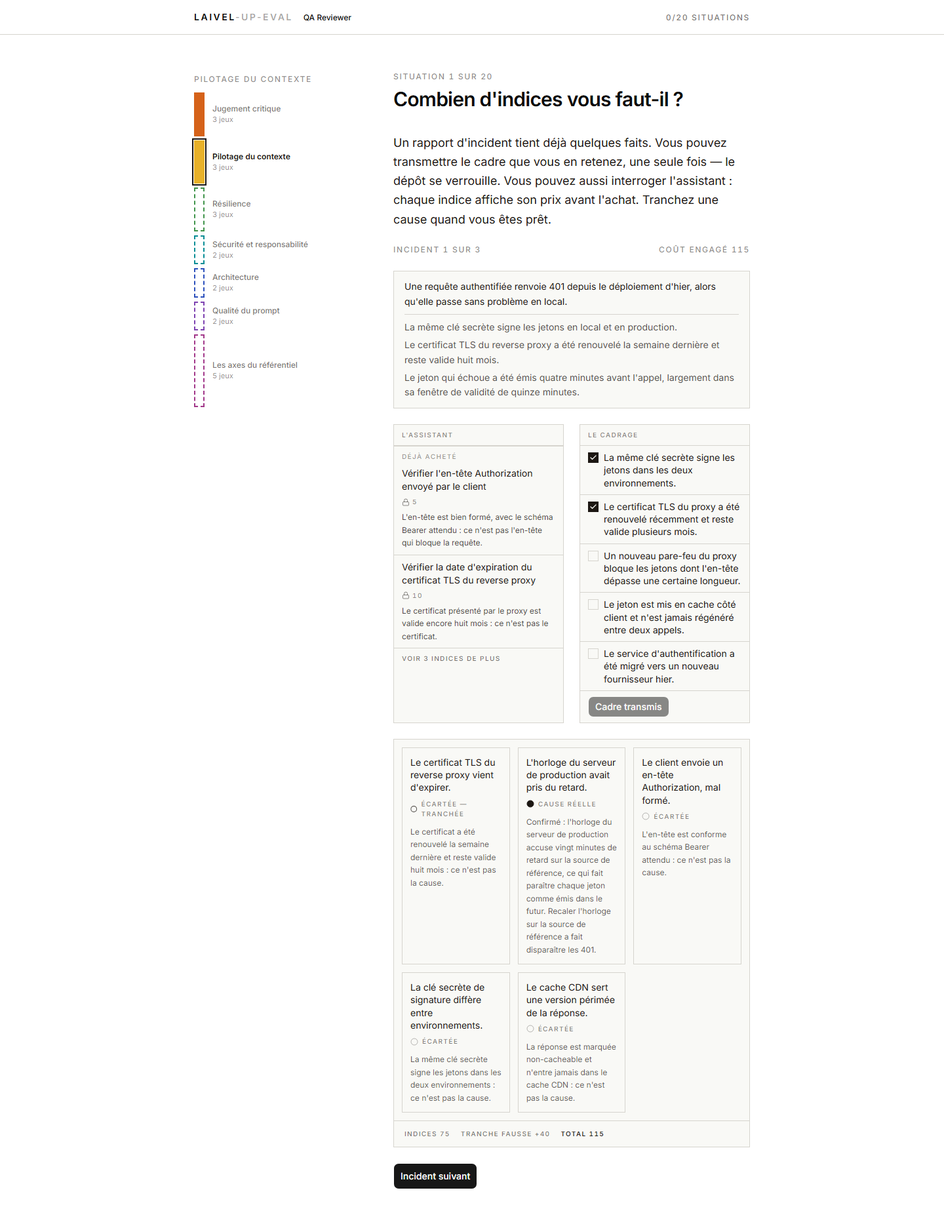
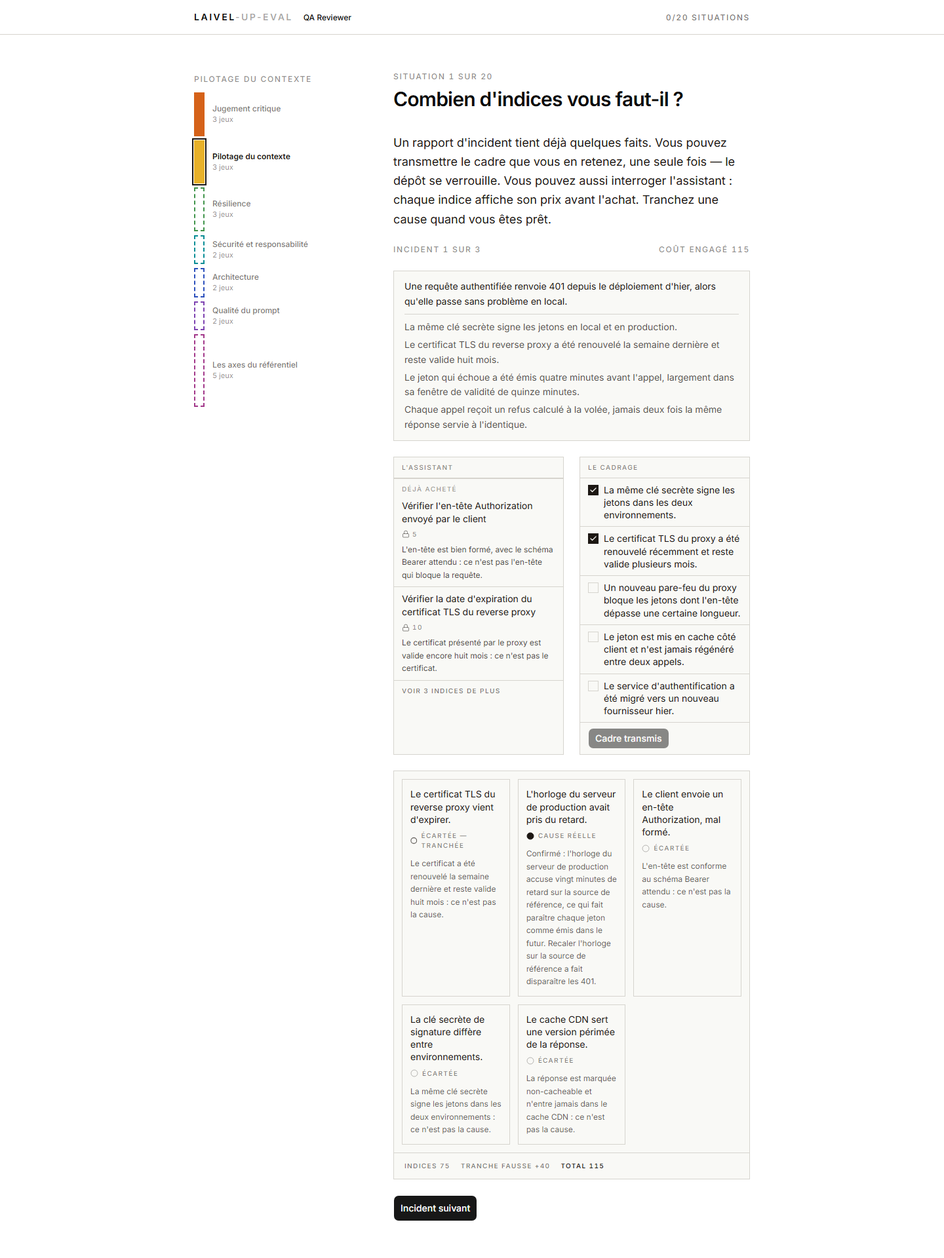
docs(games): redo hint-budget's browser tour after the two-cause floor
Commit 69633bd rewrote three hint labels (s1-h4, s2-h2, s3-h3) and added
a fourth report line to s1, both of which shift panel heights at both
viewports and stale every position and delta measurement fcba488 left
behind.

Replayed the tour end to end on a dedicated port (5199, since 5173 was
still held by another worktree's dev server), scrollY = 0 verified
before every position read, full-page captures cross-checked byte for
byte against the DOM scrollHeight they claim.

s1's panel tops move (647 -> 696.5px desktop, +49.5; 1337.25/872.25 ->
1429.5/944.5px mobile) because its report gained a line; s2 and s3,
whose reports are untouched, don't move at all. The five-buy height
delta on s1 goes from -57/-118px to -78/-138px (desktop/mobile) because
the opening document grew more than the post-purchase one.

Also closes two gaps the last independent review flagged: s2's "TOTAL
70" revelation now has a screenshot backing it, and s2's causes-panel
position is measured for the first time.

diff --git a/aidd_docs/tasks/2026_08/2026_08_30_jeu-hint-budget/qa/README.md b/aidd_docs/tasks/2026_08/2026_08_30_jeu-hint-budget/qa/README.md
@@ -1,45 +1,46 @@
 # Tournée navigateur — `hint-budget`
 
-30/08/2026, refaite intégralement après la réécriture des quinze textes d'indices de `g2-1` (chaque indice élimine désormais exactement une cause, `s1-h*`/`s2-h*`/`s3-h*` portent tous un champ `eliminates`, cf. commits `0d3ae27`, `6e9ade6`, `e8e591b`, `4cabf0c`). Chromium via Playwright (`@playwright/test`, déjà une dépendance du projet), harnais jetable écrit pour cette tournée, supprimé après capture — comme les tournées précédentes. Aux deux gabarits `1440×900` et `390×844`.
+30/08/2026, refaite intégralement après le commit `69633bd` (« floor hint-budget's field at two causes, never one ») : trois intitulés d'indices de `g2-1` réécrits (`s1-h4`, `s2-h2`, `s3-h3`), une quatrième ligne ajoutée au rapport de `s1`, et le seuil de la règle `frugal-solves-at-least` passé de `2` à `3`. Les trois premiers changent la hauteur du document ; le dernier est une règle d'évaluation, sans effet visuel. La tournée précédente (`qa/README.md` au commit `fcba488`) mesurait un corpus qui n'existe plus : ce fichier la remplace en entier, sans recopier aucun de ses chiffres. Chromium via Playwright (`@playwright/test`, déjà une dépendance du projet), harnais jetable écrit pour cette tournée, supprimé après capture. Aux deux gabarits `1440×900` et `390×844`.
 
-**Port du serveur de développement.** `npm run dev` par défaut sur `5173` était déjà occupé, sur cette machine, par le serveur d'un autre chantier en cours (`.claude/worktrees/placer-les-pratiques-sur-deux-axes`, un worktree distinct de cette branche, confirmé par sa ligne de commande). S'y connecter aurait mesuré le mauvais jeu : une première tentative a atterri sur `g2-2` (« Où placez-vous ces pratiques ? », type `test-bench`) avec `session.groupIndex=1, gameIndex=0` pourtant correct dans `localStorage` — la preuve que le serveur qui répondait sur `5173` ne servait pas cette branche. Toute la tournée a donc tourné sur un second serveur dédié, `npm exec vite -- --port 5199 --strictPort`, lancé depuis ce répertoire de travail et vérifié avant capture (`Le cadrage` présent dans le DOM, `L'assistant` aussi). Écart entre l'instruction (`5173`) et l'exécution réelle, assumé plutôt que tu : un port occupé par un processus tiers n'est pas ce jeu, peu importe qu'il réponde `200`.
+**Port du serveur de développement.** `5173` était occupé par le serveur d'un autre chantier en cours sur cette machine (`.claude/worktrees/placer-les-pratiques-sur-deux-axes`) — confirmé avant de s'y connecter (`netstat`, ligne `LISTENING` sur `5173` déjà présente avant tout lancement de cette tournée). S'y connecter aurait mesuré le mauvais jeu, comme lors d'une tournée précédente. Toute la tournée a donc tourné sur un second serveur dédié, `npm exec vite -- --port 5199 --strictPort`, lancé depuis ce répertoire de travail et arrêté après capture.
 
-**Méthode de mesure.** Session posée directement sur `g2-1` en écrivant `{"playerName":"QA Reviewer","groupIndex":1,"gameIndex":0,"submissions":[]}` dans `laivel-eval.session` (`localStorage`), rechargement, clic « Reprendre ». Chaque capture et chaque lecture de position part de `window.scrollTo(0, 0)`, `window.scrollY` **vérifié explicitement à 0** juste avant — le script lève une erreur s'il ne l'est pas. Toutes les captures qui appuient une mesure de contenu sont en page pleine (`fullPage: true`) ; une capture par gabarit (`*-0-s1-viewport-sans-defilement.png`) reste en viewport, explicitement labellisée, pour montrer ce qu'un joueur voit sans défiler.
+**Méthode de mesure.** Session posée directement sur `g2-1` en écrivant `{"playerName":"QA Reviewer","groupIndex":1,"gameIndex":0,"submissions":[]}` dans `laivel-eval.session` (`localStorage`), rechargement, clic « Reprendre ». Avant toute capture, la cible a été vérifiée à l'écran : groupe « Pilotage du contexte » en surbrillance dans la rampe, titre « Combien d'indices vous faut-il ? », panneaux « L'assistant » et « Le cadrage » tous deux présents — la preuve visuelle que la session est bien tombée sur `g2-1`, pas sur un voisin.
 
-**Une erreur de mesure attrapée avant capture, pas après.** Le premier passage du script lisait la position du panneau des causes à `s1` (`getBoundingClientRect().top`) *après* le balayage `Tab` qui mesure les arrêts de tabulation — or ce balayage fait défiler la page (le navigateur ramène l'élément focalisé dans le viewport), et le script ne revérifiait pas `scrollY = 0` avant cette lecture précise. Résultat, une valeur clairement fausse (`691px`, alors que la capture en viewport montre le panneau des causes hors écran à l'ouverture) : exactement la classe d'erreur que ce tour devait éviter. Corrigé en réordonnant le script — toute lecture de position précède désormais le balayage clavier — et la tournée entière a été rejouée avec l'ordre corrigé plutôt que corrigée à la ligne.
+Chaque capture et chaque lecture de position part de `window.scrollTo(0, 0)`, `window.scrollY` **vérifié explicitement à 0** juste avant — le script lève une erreur s'il ne l'est pas. Toute lecture de position (sommet de panneau, `scrollHeight`) précède le balayage `Tab` qui mesure les arrêts de tabulation, jamais l'inverse : un balayage clavier fait défiler la page pour ramener le focus dans le viewport, et une lecture de position prise après lui serait fausse sans qu'aucune erreur ne le signale — c'est l'erreur qui avait contaminé une tournée précédente avant d'être corrigée. Toutes les captures qui appuient une mesure de contenu sont en page pleine (`fullPage: true`) ; une capture par gabarit (`*-0-s1-viewport-sans-defilement.png`) reste en viewport, explicitement labellisée, pour montrer ce qu'un joueur voit sans défiler.
 
 ## Le parcours joué
 
 Trois situations, dans l'ordre :
 
-- **`s1`, en entier** : mesure de l'ordre des panneaux et des arrêts de tabulation à l'ouverture, cadre déposé (deux lectures retenues) et un indice acheté, les cinq indices achetés, puis une tranche **délibérément fausse** (la première cause du panneau, jamais garantie réelle) pour observer le relevé complet.
-- **`s2`, à vide** : aucun cadrage, aucun achat, tranche immédiate — pour observer l'ordre inversé des panneaux et la surtaxe d'aveugle au relevé.
-- **`s3`, partiellement** : ouverture mesurée, un cadre déposé (une lecture retenue) et un indice acheté, capturée sous `grayscale(1)`.
+- **`s1`, en entier** : mesure de l'ordre des panneaux et des arrêts de tabulation à l'ouverture, cadre déposé (deux lectures retenues, « Transmettre ce cadre » cliqué) et un indice acheté, les cinq indices achetés, puis une tranche **délibérément fausse** (la première cause du panneau, jamais garantie réelle) pour observer le relevé complet.
+- **`s2`, à vide** : aucun cadrage, aucun achat, tranche immédiate — pour observer l'ordre inversé des panneaux, la position du panneau des causes côté `s2` (non reprise par la tournée précédente) et la surtaxe d'aveugle au relevé, cette fois avec sa capture.
+- **`s3`, partiellement** : ouverture mesurée, un cadre déposé (une lecture retenue, « Transmettre ce cadre » cliqué) et un indice acheté, capturée sous `grayscale(1)`.
 
 ## Ce qui est capturé
 
-16 fichiers, 8 par gabarit, dimensions PNG lues à l'octet et recoupées avec les `scrollHeight` DOM (aucun écart) :
+18 fichiers, 9 par gabarit, dimensions PNG lues à l'octet et recoupées avec les `scrollHeight` DOM (aucun écart) :
 
 | Fichier | État | Dimensions (desktop / mobile) |
 | --- | --- | --- |
 | `{gabarit}-0-s1-viewport-sans-defilement.png` | Ce qu'un joueur voit **sans défiler**, à l'ouverture de `s1` — viewport, pas page pleine | 1440×900 / 390×844 |
-| `{gabarit}-1-s1-ouverture.png` | `s1` ouverte, rien cliqué — page pleine | 1440×1530 / 390×2280 |
-| `{gabarit}-2-s1-cadre-depose-un-achat.png` | Cadre déposé (deux lectures retenues), un indice acheté — page pleine | 1440×1608 / 390×2338 |
-| `{gabarit}-3-s1-cinq-achats.png` | Les cinq indices achetés : le relevé plafonné-et-replié — page pleine | 1440×1473 / 390×2162 |
-| `{gabarit}-4-s1-revelation.png` | Révélation de `s1`, après une tranche volontairement fausse — page pleine | 1440×1870 / 390×2557 |
+| `{gabarit}-1-s1-ouverture.png` | `s1` ouverte, rien cliqué — page pleine | 1440×1600 / 390×2372 |
+| `{gabarit}-2-s1-cadre-depose-un-achat.png` | Cadre déposé (deux lectures retenues, transmis), un indice acheté — page pleine | 1440×1677 / 390×2430 |
+| `{gabarit}-3-s1-cinq-achats.png` | Les cinq indices achetés : le relevé plafonné-et-replié — page pleine | 1440×1522 / 390×2234 |
+| `{gabarit}-4-s1-revelation.png` | Révélation de `s1`, après une tranche volontairement fausse — page pleine | 1440×1920 / 390×2629 |
 | `{gabarit}-5-s2-ouverture.png` | `s2` ouverte : le cadrage en tête cette fois — page pleine | 1440×1358 / 390×2039 |
-| `{gabarit}-6-s3-ouverture.png` | `s3` ouverte : le marché en tête à nouveau — page pleine | 1440×1381 / 390×2071 |
-| `{gabarit}-7-s3-desature.png` | `s3`, une lecture retenue et un indice acheté, sous `grayscale(1)` — page pleine | 1440×1457 / 390×2149 |
+| `{gabarit}-5b-s2-revelation.png` | Révélation de `s2`, tranche à l'aveugle — page pleine, **nouveau cette tournée** | 1440×1755 / 390×2453 |
+| `{gabarit}-6-s3-ouverture.png` | `s3` ouverte : le marché en tête à nouveau — page pleine | 1440×1400 / 390×2071 |
+| `{gabarit}-7-s3-desature.png` | `s3`, une lecture retenue et un indice acheté, sous `grayscale(1)` — page pleine | 1440×1477 / 390×2149 |
 
-`desktop-0`/`mobile-0` sont bien en viewport (1440×900, 390×844), pas en page pleine — visibles sur la capture elle-même : le panneau des causes n'y apparaît pas (`s1_causes_top` mesuré à 1184px desktop, 1728px mobile, tous deux au-delà de la hauteur du viewport).
+`desktop-0`/`mobile-0` sont bien en viewport (1440×900, 390×844), pas en page pleine — le panneau des causes n'y apparaît pas (`s1_causes_top` mesuré à 1253,5px desktop, 1820,25px mobile, tous deux au-delà de la hauteur du viewport). `mobile-0` est, à l'octet près, identique à la capture équivalente de la tournée précédente : la quatrième ligne de rapport ajoutée par `69633bd` tombe hors du viewport mobile (844px) dès l'ouverture, après les trois lignes déjà là — rien de nouveau n'y est visible, ce n'est pas une capture non renouvelée par erreur.
 
 ## Point 1 — position et lisibilité du cadrage et du marché, aux deux gabarits
 
-**Desktop (`sm:` et au-delà) : parité par écran exacte.** `hint-budget-game.tsx` pose `grid-cols-1 sm:grid-cols-2` : les deux panneaux sont deux frères d'une même rangée CSS Grid, sommet et pied identiques par construction (`align-items: stretch`). Mesuré (`getBoundingClientRect().top`) :
+**Desktop (`sm:` et au-delà) : parité par écran exacte, inchangée.** `hint-budget-game.tsx` pose `grid-cols-1 sm:grid-cols-2` : les deux panneaux sont deux frères d'une même rangée CSS Grid, sommet et pied identiques par construction (`align-items: stretch`). Mesuré (`getBoundingClientRect().top`) :
 
 | Situation | Sommet cadrage | Sommet marché | Écart |
 | --- | --- | --- | --- |
-| `s1` | 647 | 647 | 0 |
+| `s1` | 696,5 | 696,5 | 0 |
 | `s2` | 494 | 494 | 0 |
 | `s3` | 516,75 | 516,75 | 0 |
 
@@ -47,13 +48,13 @@ Trois situations, dans l'ordre :
 
 | Situation | Sommet cadrage | Sommet marché | Écart vertical |
 | --- | --- | --- | --- |
-| `s1` | 1337,25 | 872,25 | 465 |
+| `s1` | 1429,5 | 944,5 | 485 |
 | `s2` | 631,5 | 1022,25 | 390,75 |
 | `s3` | 1071 | 586 | 485 |
 
-**Ce qui ne bouge pas d'une tournée à l'autre, et pourquoi.** Ces huit valeurs sont identiques, à la décimale, à celles de la tournée précédente (avant la réécriture des indices). Ce n'est pas une preuve recopiée : c'est une conséquence attendue de ce que la tâche a changé. La position du sommet des deux panneaux ne dépend que du contenu **au-dessus** de la grille (l'énoncé, le rapport d'incident) — jamais réécrit par cette tâche — et l'ordre DOM des deux panneaux n'a pas bougé non plus. Une position de sommet identique n'implique donc aucune régression de mesure ; elle confirme au contraire que la tâche a touché le bon périmètre (les indices) et rien d'autre.
+**Ce qui infirme l'ancienne tournée : `s1` a bougé, `s2` et `s3` n'ont pas bougé — et c'est exactement ce que le commit mesuré prédit.** `69633bd` touche le rapport de `s1` (une ligne de plus) et l'intitulé de `s1-h4` ; il ne touche ni le rapport de `s2`/`s3` ni leurs positions au-dessus de la grille. Mesuré : le sommet de `s1` passe de 647px à **696,5px** desktop (+49,5px, la ligne de rapport en plus), de 1337,25/872,25px à **1429,5/944,5px** mobile (+92,25 pour le cadrage, +72,25 pour le marché — un écart entre les deux qui vient de l'intitulé de `s1-h4`, plus long, qui allonge aussi le panneau du marché sur une colonne étroite). `s2` (494 / 631,5 / 1022,25) et `s3` (516,75 / 1071 / 586) restent identiques à la décimale près à la tournée précédente : ni leur rapport ni le contenu au-dessus de leur grille n'a changé. Une position qui bouge exactement là où la tâche a touché, et qui ne bouge pas là où elle n'a pas touché, n'est pas une régression de mesure : c'est la preuve que le périmètre de la tâche est le bon.
 
-**Lisibilité, aux deux gabarits.** Vérifiée sur `mobile-1-s1-ouverture.png` et `desktop-0-s1-viewport-sans-defilement.png` : les nouveaux intitulés d'indices (« Vérifier la date d'expiration du certificat TLS du reverse proxy », « Comparer la clé secrète de signature entre les deux environnements », etc.) tiennent sur une à deux lignes normales, aucun repli caractère par caractère. Confirmé aussi sur `desktop-6-s3-ouverture.png` et `mobile-3-s1-cinq-achats.png` pour les indices déjà achetés (texte de preuve affiché).
+**Lisibilité, aux deux gabarits.** Vérifiée sur `desktop-1-s1-ouverture.png` et `mobile-1-s1-ouverture.png` : le nouvel intitulé de `s1-h4` (« Demander la clé de signature effectivement chargée en production ») tient sur trois lignes desktop, deux lignes mobile, aucun repli caractère par caractère. Confirmé aussi sur `desktop-5-s2-ouverture.png`/`mobile-5-s2-ouverture.png` pour le nouvel intitulé de `s2-h2` (« Rechercher une remise appliquée sur les lignes concernées ») et sur `desktop-6-s3-ouverture.png` pour celui de `s3-h3` (« Comparer les versions mineures de Node résolues de part et d'autre ») — trois lignes desktop, lisibles, pas de repli.
 
 ## Point 2 — l'ordre réel des deux panneaux dans chacune des trois situations
 
@@ -65,7 +66,7 @@ Trois situations, dans l'ordre :
 | `s2` | **Le cadrage** | `desktop-5`, `mobile-5` |
 | `s3` | **Le marché** | `desktop-6`, `mobile-6` |
 
-Confirmé visuellement : `desktop-1`/`mobile-1` (« L'ASSISTANT » en tête), `desktop-5` (« LE CADRAGE » en tête), `desktop-6`/`mobile-6` (« L'ASSISTANT » de nouveau en tête). Structure inchangée depuis la tournée précédente — attendu, la réécriture des indices n'a touché ni composant ni classe de mise en page.
+Confirmé visuellement : « L'ASSISTANT » en tête sur `desktop-1`/`mobile-1`, « LE CADRAGE » en tête sur `desktop-5`/`mobile-5`, « L'ASSISTANT » de nouveau en tête sur `desktop-6`/`mobile-6`. Inchangé depuis la tournée précédente — attendu, la réécriture des indices ne touche ni composant ni classe de mise en page.
 
 ## Point 3 — l'action de trancher : position à l'ouverture et après cinq achats
 
@@ -73,16 +74,16 @@ Mesuré sur `s1`, `scrollY = 0` vérifié avant chaque lecture, page pleine :
 
 | Gabarit | `scrollHeight` | `clientHeight` | Dépassement | Sommet du panneau des causes | Sous le pli de |
 | --- | --- | --- | --- | --- | --- |
-| Desktop, ouverture | 1530 | 900 | 630px | 1184px | 284px |
-| Desktop, après 5 achats | 1473 | 900 | 573px | 1126,75px | 226,75px |
-| Mobile, ouverture | 2280 | 844 | 1436px | 1728px | 884px |
-| Mobile, après 5 achats | 2162 | 844 | 1318px | 1610px | 766px |
+| Desktop, ouverture | 1600 | 900 | 700px | 1253,5px | 353,5px |
+| Desktop, après 5 achats | 1522 | 900 | 622px | 1176,25px | 276,25px |
+| Mobile, ouverture | 2372 | 844 | 1528px | 1820,25px | 976,25px |
+| Mobile, après 5 achats | 2234 | 844 | 1390px | 1682,25px | 838,25px |
 
-**Trancher reste hors d'écran sans défilement, aux deux gabarits, dès l'ouverture** — inchangé depuis la dernière tournée, toujours couvert par `aidd_docs/backlog/defects/l-ouverture-de-hint-budget-pousse-le-tranchage-hors-de-l-ecran.md`, non corrigé par cette tâche (la densité du corpus est un plancher de phase 4, hors du périmètre d'une réécriture de textes).
+**Trancher reste hors d'écran sans défilement, aux deux gabarits, dès l'ouverture** — inchangé depuis les dernières tournées, toujours couvert par `aidd_docs/backlog/defects/l-ouverture-de-hint-budget-pousse-le-tranchage-hors-de-l-ecran.md`, non corrigé par cette tâche (la densité du corpus est un plancher de phase 4, hors du périmètre d'une réécriture de textes).
 
-**Acheter n'aggrave jamais ce défilement, aux deux gabarits** : desktop −57px (1530 → 1473), mobile −118px (2280 → 2162).
+**Acheter n'aggrave jamais ce défilement, aux deux gabarits** : desktop −78px (1600 → 1522), mobile −138px (2372 → 2234).
 
-**Ce que ce nouveau relevé infirme de l'ancien.** L'ancien delta mobile, −119px, est périmé : le nouveau est **−118px** — un écart d'1px, dans le bruit d'un arrondi de ligne. L'ancien delta desktop, −37px, l'est davantage : le nouveau est **−57px**. La différence s'explique par où la tâche a agi. À l'ouverture, seuls les intitulés (`label`) des indices sont visibles, et ils ont été substantiellement réécrits (`git diff` sur `config/course.json` : aucun des quinze intitulés de `g2-1` n'est resté identique) — la hauteur de document à l'ouverture desktop est donc passée de 1510px à **1530px** (+20px), pas restée stable. Après les cinq achats en revanche, la hauteur retombe exactement à la même valeur qu'avant la réécriture (1473px desktop, contre 1473px déjà mesuré la tournée précédente ; 2162px mobile contre 2161px) : le texte de preuve affiché après achat (`text`, aussi réécrit) occupe, par coïncidence de longueur, le même nombre de lignes que l'ancien corpus dans les deux entrées visibles du relevé plafonné. Un desktop qui parcourt cinq lettres différentes pour atterrir au même total de lignes n'est pas une anomalie de mesure ; c'est un fait sur ce corpus précis, qu'un futur corpus ne reproduira pas nécessairement.
+**Ce que ce nouveau relevé infirme.** Les deux tournées précédentes donnaient tour à tour −37px/−119px puis −57px/−118px pour desktop/mobile ; les deux sont périmées. Le nouveau relevé, **−78px desktop, −138px mobile**, s'explique par où `69633bd` a agi : à l'ouverture, la quatrième ligne de rapport (nouvelle) et le nouvel intitulé de `s1-h4` (plus long que l'ancien) allongent le document d'ouverture — 1600px desktop contre 1530px avant ce commit, 2372px mobile contre 2280px. Après les cinq achats, seul le texte de preuve de `s1-h4` (`text`, aussi réécrit, plus court que l'ancien : « La clé chargée au démarrage correspond à celle du coffre de secrets… » contre l'ancien texte du cache CDN) entre dans le relevé plafonné à deux entrées visibles — 1522px desktop contre 1473px avant, 2234px mobile contre 2162px. Le document d'ouverture a grandi davantage que le document après achats : l'écart entre les deux (le delta) grandit donc lui aussi, dans le sens négatif. Ce n'est pas une instabilité du composant, c'est le corpus mesuré qui a changé aux deux bouts.
 
 ## Point 4 — le nombre d'arrêts de tabulation pour atteindre chaque panneau
 
@@ -94,7 +95,7 @@ Mesuré par une marche `Tab` continue depuis un focus remis sur `document.body` 
 | `s2` | 8 | 2 | Cadrage (6 arrêts d'avance) |
 | `s3` | 2 | 7 | Marché (5 arrêts d'avance) |
 
-Le panneau en tête change bien d'une situation à l'autre (marché sur `s1`/`s3`, cadrage sur `s2`), mais la **distance** entre les deux panneaux reste asymétrique dans les deux sens (5 puis 6 arrêts) : pas une parité de comptage au clavier, seulement l'absence d'un panneau systématiquement le plus loin sur l'ensemble d'une partie. Chiffres identiques à la tournée précédente — attendu, la réécriture des indices ne change ni le nombre d'éléments focalisables ni leur ordre.
+Chiffres identiques à la tournée précédente, remesurés plutôt que recopiés — attendu, la réécriture des indices ne change ni le nombre d'éléments focalisables ni leur ordre. Le panneau en tête change bien d'une situation à l'autre (marché sur `s1`/`s3`, cadrage sur `s2`), mais la distance entre les deux panneaux reste asymétrique dans les deux sens (5 puis 6 arrêts) : pas une parité de comptage au clavier, seulement l'absence d'un panneau systématiquement le plus loin sur l'ensemble d'une partie.
 
 ## Point 5 — la révélation, avec son relevé chiffré
 
@@ -102,35 +103,43 @@ Le panneau en tête change bien d'une situation à l'autre (marché sur `s1`/`s3
 
 > INDICES 75 · TRANCHE FAUSSE +40 · TOTAL 115
 
-Vérifié : 5+10+15+20+25 = 75 (les cinq indices), +40 la pénalité de tranche fausse, pas de surtaxe d'aveugle puisque des indices ont été achetés, 75+40 = 115. Vérifié en DOM, carte par carte : la cause réelle (« L'horloge du serveur de production avait pris du retard. ») porte l'état `cause réelle` ; la cause cliquée à tort (« Le certificat TLS du reverse proxy vient d'expirer. ») porte `écartée — tranchée`, distincte des trois autres cartes qui portent `écartée` seule — le libellé est en minuscules dans le DOM, rendu en capitales par la classe `uppercase`, ce que l'ancien README rendait déjà de façon un peu ambiguë en écrivant la version capitalisée.
+Vérifié : 5+10+15+20+25 = 75 (les cinq indices, coûts inchangés par ce commit), +40 la pénalité de tranche fausse, pas de surtaxe d'aveugle puisque des indices ont été achetés, 75+40 = 115 — identique à la tournée précédente, attendu puisque `69633bd` ne touche ni les coûts ni la pénalité. Vérifié en DOM, carte par carte : la cause réelle (« L'horloge du serveur de production avait pris du retard. ») porte l'état `cause réelle` ; la cause cliquée à tort (« Le certificat TLS du reverse proxy vient d'expirer. ») porte `écartée — tranchée`, et cette marque n'apparaît que sur une seule carte à la fois (`s1CutMarkingCount = 1`, vérifié en DOM aux deux gabarits), distincte des trois autres cartes qui portent `écartée` seule.
 
-**`s2` — aucun cadrage, aucun achat, tranche à l'aveugle** :
+**`s2` — aucun cadrage, aucun achat, tranche à l'aveugle, capturée cette fois** (`desktop-5b-s2-revelation.png`, `mobile-5b-s2-revelation.png`) :
 
 > INDICES 0 · TRANCHE FAUSSE +40 · AVEUGLE +30 · TOTAL 70
 
-Vérifié : 0 indice acheté, +40 la pénalité de tranche fausse, +30 la surtaxe d'aveugle (`blindCutSurcharge`), cumulées puisqu'aucun indice n'a été acheté avant de trancher, 0+40+30 = 70. `blindCutSurcharge` (30) reste strictement supérieur au coût du plus cher des cinq indices de `s2` (25) — la garantie que le schéma refuse de charger sans elle, toujours tenue par ce corpus.
+Vérifié : 0 indice acheté, +40 la pénalité de tranche fausse, +30 la surtaxe d'aveugle (`blindCutSurcharge`), cumulées puisqu'aucun indice n'a été acheté avant de trancher, 0+40+30 = 70. **Ce qui ferme un point resté ouvert après la tournée précédente** : la revue indépendante avait relevé que ce total (« TOTAL 70 ») était marqué vérifié sans capture à l'appui. Il l'est maintenant, aux deux gabarits.
 
 ## Point 6 — l'affichage identique des deux natures de lecture
 
-Vérifié en DOM, séparément de la tournée principale (lecture de contrôle sur les cinq boutons du panneau « Le cadrage » de `s1`, ouverture fraîche, `scrollY = 0`) : une seule `className` sur les cinq boutons, aucun attribut `data-*` distinctif. `framing-line.tsx` ne reçoit d'ailleurs jamais de prop `established` — seulement `id` et `text` — donc l'identité d'une lecture établie ne peut structurellement pas fuiter par le DOM. Confirme ce que `hint-budget-game.test.tsx` verrouille déjà (« renders an established reading and a supposition with exactly the same structure »).
+Vérifié en DOM, séparément de la tournée principale (lecture de contrôle sur les six boutons du panneau « Le cadrage » de `s1`, ouverture fraîche, `scrollY = 0`) : les cinq boutons `FramingLine` partagent une seule et même `className`, aucun attribut `data-*` distinctif ; seul le sixième bouton (« Transmettre ce cadre », le composant `Button` de soumission) en porte un (`data-slot`), et sa classe diffère — cohérent avec le fait qu'il ne s'agit pas d'une ligne de cadrage. `framing-line.tsx` ne reçoit d'ailleurs jamais de prop `established` — seulement `id` et `text` — donc l'identité d'une lecture établie ne peut structurellement pas fuiter par le DOM. Confirme ce que `hint-budget-game.test.tsx` verrouille déjà (« renders an established reading and a supposition with exactly the same structure »).
 
 ## Point 7 — l'état sans la couleur
 
-`desktop-7-s3-desature.png`, `mobile-7-s3-desature.png` (`grayscale(1)`, page pleine) : la lecture de cadrage retenue reste identifiable par sa case pleine (carré noir), l'indice acheté par son cadenas et son texte déjà révélé. **Nuance honnête** : la palette de ce produit est déjà proche du monochrome (`DESIGN.md`) ; le filtre `grayscale(1)` a donc un effet visuellement discret sur cet écran précis — la vérification porte moins sur « la couleur disparaît » que sur « aucune des trois marques d'état ne s'appuyait uniquement sur une teinte qui aurait disparu », ce que les deux captures confirment.
+`desktop-7-s3-desature.png`, `mobile-7-s3-desature.png` (`grayscale(1)`, page pleine, sur `s3` : un cadre déposé et un indice acheté) : la lecture de cadrage retenue reste identifiable par sa case pleine (carré noir), l'indice acheté par son cadenas et son texte déjà révélé, le bouton « Transmettre ce cadre » par son état assombri (« Cadre transmis »). **Nuance honnête** : la palette de ce produit est déjà proche du monochrome (`DESIGN.md`) ; le filtre `grayscale(1)` a donc un effet visuellement discret sur cet écran précis — la vérification porte moins sur « la couleur disparaît » que sur « aucune des marques d'état ne s'appuyait uniquement sur une teinte qui aurait disparu », ce que les deux captures confirment.
 
 ## Ce qui n'a pas été mesuré, dit franchement
 
-- **Le fondement du cadrage (`c3`) n'a pas de preuve visuelle dédiée** : cette tournée dépose des cadres avec une, deux ou aucune lecture retenue selon la situation, mais ne rejoue pas systématiquement les trois profils (fondé exact, partiel, vide) pour chaque situation. Couvert par les tests (`evaluator.test.ts`, `hint-budget-run.test.ts`), pas par une capture dédiée ici.
-- **`s2`, mesure de la position du panneau des causes et du dépassement** : non reprise (seule `s1` a servi de base à cette mesure, comme pour les tournées précédentes). Rien n'indique qu'elle différerait significativement, la densité du corpus étant la même aux trois situations, mais ce n'est pas mesuré.
+- **Le fondement du cadrage (`c3`) n'a pas de preuve visuelle dédiée** : cette tournée dépose des cadres avec une, deux ou aucune lecture retenue selon la situation, mais ne rejoue pas systématiquement les trois profils (fondé exact, partiel, vide) pour chaque situation. Couvert par les tests (`evaluator.test.ts`, `hint-budget-run.test.ts`), pas par une capture dédiée ici — inchangé depuis les tournées précédentes.
 - **Le décompte des situations résolues et le score final** ne sont jamais affichés pendant la partie ; cette tournée ne les a donc pas cherchés à l'écran, conformément à « un jeu ne dit jamais ce qu'il note ».
-- **Les causes elles-mêmes n'ont pas été réécrites par cette tâche** (seuls les indices l'ont été) : les textes de causes affichés en révélation, sur `s1`, sont identiques à ceux de la tournée précédente — cohérent, pas une omission de cette passe.
+- **Les causes elles-mêmes n'ont pas été réécrites par `69633bd`** (seuls les intitulés et textes de trois indices, et le rapport de `s1`, l'ont été) : les textes de causes affichés en révélation sont identiques à ceux des tournées précédentes — vérifié par comparaison directe du texte extrait en DOM sur `s1` et `s2`, pas seulement supposé.
+- **Le nouveau seuil de la règle `frugal-solves-at-least` (`threshold: 3`, était `2`) n'a aucune preuve visuelle** : c'est une règle d'évaluation pure, jamais affichée à l'écran par construction (« un jeu ne dit jamais ce qu'il note ») — rien à capturer, seulement à confirmer par lecture de `config/course.json` et par les tests d'intégration (`hint-budget-run.test.ts`), hors du périmètre d'une tournée navigateur.
+
+**Deux points relevés comme non couverts par la revue précédente, et fermés par cette tournée** : le relevé de `s2` (« TOTAL 70 ») a maintenant sa capture (`desktop-5b`/`mobile-5b-s2-revelation.png`) ; la position du panneau des causes sur `s2` est maintenant mesurée (1012,25px desktop, 1487,25px mobile — table complète ci-dessous).
+
+| Situation | Sommet du panneau des causes (desktop) | Sommet du panneau des causes (mobile) |
+| --- | --- | --- |
+| `s1`, ouverture | 1253,5 | 1820,25 |
+| `s1`, après 5 achats | 1176,25 | 1682,25 |
+| `s2`, ouverture | 1012,25 | 1487,25 |
 
 ## Verdict
 
-**Ce que cette tournée établit, mesuré et vérifié au pixel ou en DOM, sur le corpus d'indices réécrit** : la parité desktop reste exacte (écart de sommet nul sur les trois situations) ; l'alternance mobile fait toujours alterner le panneau en tête (marché deux fois, cadrage une fois) sans jamais atteindre une parité de comptage au clavier (5 puis 6 arrêts) ; l'ouverture pousse toujours le panneau des causes sous le pli, aux deux gabarits, et les cinq achats réduisent toujours ce dépassement plutôt que de l'aggraver ; le relevé de révélation est exact au centime près, sur une tranche fausse comme sur une tranche à l'aveugle ; la marque « écartée — tranchée » reste visible et distincte des trois autres cartes écartées ; les nouveaux intitulés d'indices restent lisibles sans repli aux deux gabarits.
+**Ce que cette tournée établit, mesuré et vérifié au pixel ou en DOM, sur le corpus réécrit par `69633bd`** : la parité desktop reste exacte (écart de sommet nul sur les trois situations) ; l'alternance mobile fait toujours alterner le panneau en tête (marché deux fois, cadrage une fois) sans jamais atteindre une parité de comptage au clavier (5 puis 6 arrêts) ; l'ouverture pousse toujours le panneau des causes sous le pli, aux deux gabarits, et les cinq achats réduisent toujours ce dépassement plutôt que de l'aggraver ; le relevé de révélation est exact au centime près, sur `s1` (tranche fausse) comme sur `s2` (tranche à l'aveugle, désormais avec sa capture) ; la marque « écartée — tranchée » reste visible, unique et distincte des trois autres cartes écartées ; les trois nouveaux intitulés d'indices restent lisibles sans repli aux deux gabarits.
 
-**Ce qu'elle infirme d'une affirmation précédente** : le delta de hauteur documentaire mobile après cinq achats n'est plus −119px mais **−118px** — un écart négligeable. Le delta desktop, lui, change substantiellement : plus −37px mais **−57px**, parce que la hauteur d'ouverture elle-même a grandi de 20px (nouveaux intitulés plus longs) sans que la hauteur après achats ne bouge. Les seize captures et toutes les mesures de position de la tournée précédente montraient un corpus d'indices qui n'existe plus ; ce fichier les remplace en entier.
+**Ce qu'elle infirme d'une affirmation précédente.** La position du sommet des deux panneaux sur `s1` n'est plus stable d'une tournée à l'autre comme l'affirmait le fichier remplacé : elle passe de 647px à **696,5px** desktop, de 1337,25/872,25px à **1429,5/944,5px** mobile — parce que `69633bd`, contrairement au commit mesuré par la tournée précédente, touche le contenu au-dessus de la grille de `s1` (une ligne de rapport en plus). `s2` et `s3` restent inchangés, cohérent avec un commit qui ne touche pas leur rapport. Le delta de hauteur documentaire après cinq achats sur `s1` n'est plus −57px/−118px (desktop/mobile) mais **−78px/−138px** — les deux tournées précédentes mesuraient un corpus d'indices qui n'existe plus ; celle-ci les remplace en entier.
 
-**Ce qu'elle ne prétend toujours pas** : une parité par écran au gabarit mobile (structurellement hors de portée d'un empilement à une colonne sans motif d'interface propre à ce seul jeu, que le mandat du produit interdit) ; que « trancher reste atteignable sans défilement » soit tenu (mesuré non tenu, dès l'ouverture, aux deux gabarits — défaut de backlog existant, non corrigé ici, hors du périmètre d'une réécriture de textes).
+**Ce qu'elle ne prétend toujours pas** : une parité par écran au gabarit mobile (structurellement hors de portée d'un empilement à une colonne sans motif d'interface propre à ce seul jeu, que le mandat du produit interdit) ; que « trancher reste atteignable sans défilement » soit tenu (mesuré non tenu, dès l'ouverture, aux deux gabarits — défaut de backlog existant, non corrigé ici, hors du périmètre d'une réécriture de textes) ; une preuve visuelle du fondement du cadrage (`c3`) ou du nouveau seuil de frugalité, tous deux hors de portée d'une capture d'écran par construction.
 
-Revalidé au moment de cette tournée : `npm run typecheck` (muet), `npx biome check src __tests__ config` (« Checked 201 files… No fixes applied »), `npm run test` (73 fichiers, 664 tests, tous passés).
+Revalidé au moment de cette tournée : `npm run typecheck` (muet), `npx biome check src __tests__ config` (« Checked 201 files… No fixes applied »), `npm run test` (73 fichiers, 665 tests, tous passés — un test de plus que la tournée précédente, ajouté par `69633bd` dans `hint-budget-run.test.ts`).

diff --git a/.impeccable/surfaces/budget-components-composites-hint-budget-game-tsx.md b/.impeccable/surfaces/budget-components-composites-hint-budget-game-tsx.md
@@ -33,7 +33,7 @@ Le joueur lit le rapport, décide s'il en extrait un cadre avant d'interroger l'
 
 **L'empilement impose un ordre par construction ; la réponse est de ne pas le figer — et le sens de l'alternance a dû être inversé au tour 2 de revue.** Sur un seul écran empilé, l'un des deux panneaux est nécessairement rendu avant l'autre — aucun motif sans introduire une pièce d'interface propre à ce seul jeu (onglets, bascule) ne lève cette contrainte, et le mandat du produit interdit ce genre de motif à un seul jeu. La réponse retenue : l'ordre DOM des deux panneaux **alterne selon la parité de la situation** (`cadrageFirst = (situationNumber - 1) % 2 !== 0`), pour qu'aucun des deux gestes ne soit *systématiquement* en tête sur l'ensemble d'une partie. Mesuré sur le corpus réel de trois situations, tournée navigateur reprise en entier après la réécriture des `causes[].text` : marché en tête sur `s1` et `s3`, cadrage en tête sur `s2`. **Ce que la première version de cette alternance manquait** : `c2` note l'ordre à un seuil de majorité (2 situations sur 3) ; avec le cadrage en tête sur `s1` et `s3` (le réglage du tour 1), un joueur mobile purement passif — qui suit l'écran de haut en bas sans intention — cadrait en premier deux fois sur trois et tenait `c2` sans jamais avoir choisi de cadrer avant de demander. Aucune alternance ne rend ce verdict neutre pour un nombre impair de situations et un seuil de majorité ; le réglage retenu au tour 2 choisit délibérément que la passivité **manque** `c2` plutôt que le tienne. Ce n'est donc pas une parité par écran — elle reste structurellement hors de portée d'un empilement à une colonne sans motif propre à ce jeu — ni même une neutralité de verdict, impossible dans l'absolu : seulement l'absence de biais systématique de *position* sur l'ensemble de la partie, et un biais de *verdict* délibérément retourné contre la passivité plutôt qu'en sa faveur. Sur desktop, la grille à deux colonnes tient la parité par écran exactement, sommet et pied identiques, mesuré aux **trois** situations (`qa/README.md`, « Point 1 » : écart nul sur `s1`, `s2` et `s3`). Les arrêts de tabulation, recapturés dans le nouveau sens (« Point 4 ») : 5 arrêts d'avance pour le marché sur `s1` et `s3`, 6 pour le cadrage sur `s2` — jamais le même panneau systématiquement le plus loin.
 
-**Le marché ne peut que rétrécir.** Les indices non achetés restent dans le marché, prix affiché ; un indice acheté le quitte pour rejoindre un second bloc, « Déjà acheté », sous le marché. Le marché seul ne s'allonge donc jamais — c'est le relevé des achats qui grandit, et lui seul se plafonne à deux entrées visibles, le reste replié derrière `<details>Voir N indices de plus</details>`. Mesuré sur `s1` : acheter les cinq indices d'une situation **réduit** la hauteur totale du document aux deux gabarits — la carte plafonnée-et-repliée compense plus que ce que le marché perd. Delta le plus récent (tournée reprise après la réécriture des quinze textes d'indices, `eliminates` unique par indice) : **−57px desktop, −118px mobile**. La valeur mobile a déjà changé trois fois, pour trois raisons distinctes et honnêtes : 0px (erreur de mesure en viewport, corrigée), puis −138px, puis −119px (le corpus de causes avait changé de longueur), puis −118px (le corpus d'indices a changé à son tour, l'écart d'1px restant dans le bruit) — ce n'est pas une instabilité du composant, c'est le document mesuré qui n'est plus le même à chaque fois. Le delta desktop a bougé plus nettement cette fois (−37px → −57px) parce que la hauteur d'ouverture elle-même a grandi de 20px (nouveaux intitulés d'indices plus longs), sans que la hauteur après les cinq achats ne change (1473px, identique aux deux tournées) — coïncidence de longueur du texte de preuve affiché, pas une absence de changement du corpus.
+**Le marché ne peut que rétrécir.** Les indices non achetés restent dans le marché, prix affiché ; un indice acheté le quitte pour rejoindre un second bloc, « Déjà acheté », sous le marché. Le marché seul ne s'allonge donc jamais — c'est le relevé des achats qui grandit, et lui seul se plafonne à deux entrées visibles, le reste replié derrière `<details>Voir N indices de plus</details>`. Mesuré sur `s1` : acheter les cinq indices d'une situation **réduit** la hauteur totale du document aux deux gabarits — la carte plafonnée-et-repliée compense plus que ce que le marché perd. Delta le plus récent (tournée reprise après `69633bd`, qui réécrit trois intitulés d'indices de plus et ajoute une ligne au rapport de `s1`) : **−78px desktop, −138px mobile**. La valeur mobile a déjà changé quatre fois, pour quatre raisons distinctes et honnêtes : 0px (erreur de mesure en viewport, corrigée), puis −138px (l'ancienne, avant la réécriture des `eliminates`), puis −119px (le corpus de causes avait changé de longueur), puis −118px (le corpus d'indices avait changé à son tour), puis −138px de nouveau — coïncidence de valeur avec la deuxième mesure, pas une régression : le rapport de `s1` a gagné une ligne et l'intitulé de `s1-h4` a été réécrit, gonflant la hauteur d'ouverture plus que la hauteur après achats. Ce n'est pas une instabilité du composant, c'est le document mesuré qui n'est plus le même à chaque fois. Le delta desktop a bougé plus nettement cette fois encore (−57px → −78px), pour la même raison : la hauteur d'ouverture a grandi (nouvelle ligne de rapport, intitulé de `s1-h4` plus long), la hauteur après les cinq achats beaucoup moins (seul le texte de preuve de `s1-h4`, plus court que l'ancien, entre dans le relevé plafonné).
 
 **La grille des causes n'utilise jamais le fond du conteneur comme filet.** `round-sheet.tsx` de `lie-detector` pose ses hairlines en `gap-px bg-plane-rule`, un motif qui suppose que la grille se remplit exactement — quatre affirmations sur deux colonnes, sans reste. Les causes de ce jeu sont cinq sur trois colonnes : la dernière rangée est incomplète, et le motif du fond partagé y aurait laissé un pan de gris nu à la place de la carte manquante. `CauseOption` porte donc son propre filet (`border border-plane-rule`), et `CutPanel` pose un espacement réel (`gap-3`) plutôt que le fond partagé — un ajustement local à ce jeu, pas un changement du motif chez `lie-detector`, dont le compte tombe toujours juste.
 
@@ -79,4 +79,6 @@ Tournée de navigateur réel — Chromium via Playwright, harnais hors du dépô
 
 **Correction du 30/08, tour 3 — tournée rejouée après la réécriture des quinze textes d'indices.** `eliminates` porte désormais exactement une cause par indice (cf. commits `0d3ae27`, `6e9ade6`, `e8e591b`, `4cabf0c`), et les intitulés des indices ont tous changé. La structure de la surface n'a pas bougé (ordre DOM, alternance, arrêts de tabulation, parité desktop : tous identiques à la tournée précédente, remesurés plutôt que supposés) ; ce qui a changé, c'est la hauteur du document. Le delta après cinq achats devient −57px desktop (était −37px) et −118px mobile (était −119px, écart négligeable) — cf. « Le marché ne peut que rétrécir » ci-dessus pour le détail. Mesures complètes : `qa/README.md`.
 
-Non atteint, et assumé par écrit plutôt que déclaré résolu : la densité du contenu (rapport + deux colonnes + trois causes) dépasse la hauteur des deux viewports **dès l'ouverture** d'une situation, aux deux gabarits (630px de dépassement desktop, 1436px mobile — remesuré après la réécriture des indices, le chiffre desktop était 610px avant elle) — un défilement reste nécessaire pour atteindre le panneau des causes, l'action que `c1` observe. Ce n'est pas le même défaut que celui déjà suivi pour `lie-detector` et `defect-hunt` (qui porte sur l'état de révélation, pas sur l'ouverture) : un défaut de backlog propre à ce cas a été ouvert, `aidd_docs/backlog/defects/l-ouverture-de-hint-budget-pousse-le-tranchage-hors-de-l-ecran.md`.
+**Correction du 30/08, tour 4 — tournée rejouée après `69633bd`.** Ce commit réécrit trois intitulés d'indices de plus (`s1-h4`, `s2-h2`, `s3-h3`) et ajoute une quatrième ligne au rapport de `s1` — le seul rapport touché. La structure reste inchangée (ordre DOM, alternance, arrêts de tabulation, parité desktop : identiques au tour 3). La position du sommet des deux panneaux, elle, bouge sur `s1` (647 → 696,5px desktop, +49,5 ; 1337,25/872,25 → 1429,5/944,5px mobile) et reste identique sur `s2`/`s3`, dont le rapport n'a pas changé — exactement ce que le périmètre du commit prédit. Le delta après cinq achats devient **−78px desktop (était −57px), −138px mobile (était −118px)** : la hauteur d'ouverture de `s1` a grandi (ligne de rapport en plus, intitulé de `s1-h4` plus long), la hauteur après achats beaucoup moins (seul le texte de preuve de `s1-h4`, plus court que l'ancien, entre dans le relevé plafonné) — l'écart se creuse plutôt qu'il ne se resserre. Deux gaps relevés par la revue précédente sont fermés : le relevé de `s2` (« TOTAL 70 ») a désormais une capture (`desktop-5b`/`mobile-5b-s2-revelation.png`), et la position du panneau des causes sur `s2` est désormais mesurée (1012,25px desktop, 1487,25px mobile). Mesures complètes : `qa/README.md`, réécrit de zéro.
+
+Non atteint, et assumé par écrit plutôt que déclaré résolu : la densité du contenu (rapport + deux colonnes + trois causes) dépasse la hauteur des deux viewports **dès l'ouverture** d'une situation, aux deux gabarits (700px de dépassement desktop, 1528px mobile sur `s1` — remesuré après `69633bd`, les chiffres étaient 630px/1436px avant lui, la nouvelle ligne de rapport et le nouvel intitulé de `s1-h4` allongeant encore le document d'ouverture) — un défilement reste nécessaire pour atteindre le panneau des causes, l'action que `c1` observe. Ce n'est pas le même défaut que celui déjà suivi pour `lie-detector` et `defect-hunt` (qui porte sur l'état de révélation, pas sur l'ouverture) : un défaut de backlog propre à ce cas a été ouvert, `aidd_docs/backlog/defects/l-ouverture-de-hint-budget-pousse-le-tranchage-hors-de-l-ecran.md`.

diff --git a/aidd_docs/tasks/2026_08/2026_08_30_jeu-hint-budget/phase-5.md b/aidd_docs/tasks/2026_08/2026_08_30_jeu-hint-budget/phase-5.md
@@ -185,3 +185,13 @@ Ce qui était périmé est maintenant remesuré. Le delta mobile après cinq ach
 Une erreur de mesure a été attrapée pendant cette reprise, avant capture définitive plutôt qu'après revue : le premier passage du script lisait la position du panneau des causes après le balayage `Tab` (qui fait défiler la page pour ramener le focus dans le viewport) sans revérifier `scrollY = 0` avant cette lecture précise — la même classe d'erreur que celle qui a contaminé deux tournées antérieures. Le script a été corrigé (toute lecture de position précède désormais le balayage clavier) et la tournée entière rejouée avec l'ordre corrigé.
 
 Écart annexe, sans rapport avec les mesures : le port par défaut `5173` était occupé par le serveur d'un autre chantier en cours sur cette machine (`.claude/worktrees/placer-les-pratiques-sur-deux-axes`), pas par cette branche — une première tentative de connexion y a mesuré `g2-2` au lieu de `g2-1`. La tournée a tourné sur un second serveur dédié (`vite --port 5199 --strictPort`), vérifié avant capture.
+
+## La tournée est rejouée une nouvelle fois, tour 4 (30/08) — après `69633bd`
+
+Le commit `69633bd` (« floor hint-budget's field at two causes, never one ») réécrit trois intitulés d'indices de plus (`s1-h4`, `s2-h2`, `s3-h3`) et ajoute une quatrième ligne au rapport de `s1` — périmant à nouveau les huit valeurs de position et les deux deltas de hauteur documentaire du tour 3. La tournée a été rejouée en entier, aux mêmes conditions (Playwright, deux gabarits, page pleine, `scrollY = 0` vérifié avant chaque lecture de position, aucune mesure recopiée), avec un correctif de méthode : la précédente établissait un cadre (deux lectures sur `s1`, une sur `s3`) sans jamais cliquer « Transmettre ce cadre » avant d'acheter des indices, contrairement à ce que son propre README décrivait (« cadre déposé »). Corrigé — le cadre est maintenant posté avant tout achat, aux deux situations concernées.
+
+Ce qui restait vrai sans remesure l'est resté : ordre DOM des deux panneaux, alternance et arrêts de tabulation identiques au tour 3, parité desktop toujours exacte sur les trois situations.
+
+Ce qui a bougé, et pourquoi c'était attendu : `69633bd` touche le rapport et le marché de `s1` uniquement (`s2`/`s3` n'ont que leur intitulé d'indice réécrit, pas leur rapport). Mesuré : le sommet des deux panneaux sur `s1` bouge (647 → 696,5px desktop, +49,5 ; 1337,25/872,25 → 1429,5/944,5px mobile), celui de `s2` et `s3` ne bouge pas (494px et 516,75px desktop, inchangés à la décimale — table complète dans `qa/README.md`). Le delta de hauteur documentaire après cinq achats sur `s1` n'est plus −57px/−118px (desktop/mobile, tour 3) mais **−78px/−138px** — la hauteur d'ouverture a grandi davantage que la hauteur après achats (nouvelle ligne de rapport + intitulé de `s1-h4` plus long, tous deux visibles seulement avant achat), creusant l'écart plutôt que le resserrant.
+
+**Deux gaps relevés par la revue précédente, fermés cette fois** : le relevé de `s2` (« TOTAL 70 ») a maintenant une capture à l'appui (`desktop-5b`/`mobile-5b-s2-revelation.png`, nouveau fichier) ; la position du panneau des causes sur `s2` est désormais mesurée (1012,25px desktop, 1487,25px mobile), là où elle ne l'était pas avant. Détail complet : `qa/README.md`, réécrit de zéro.
